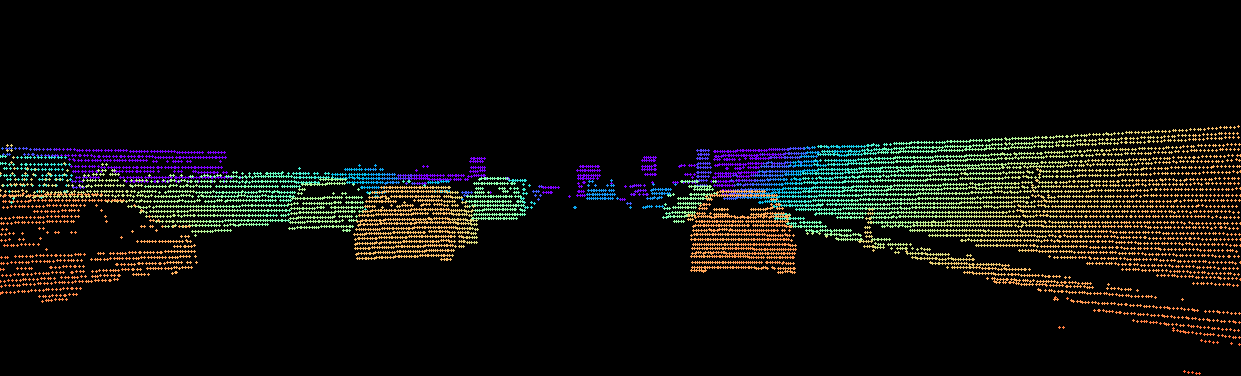
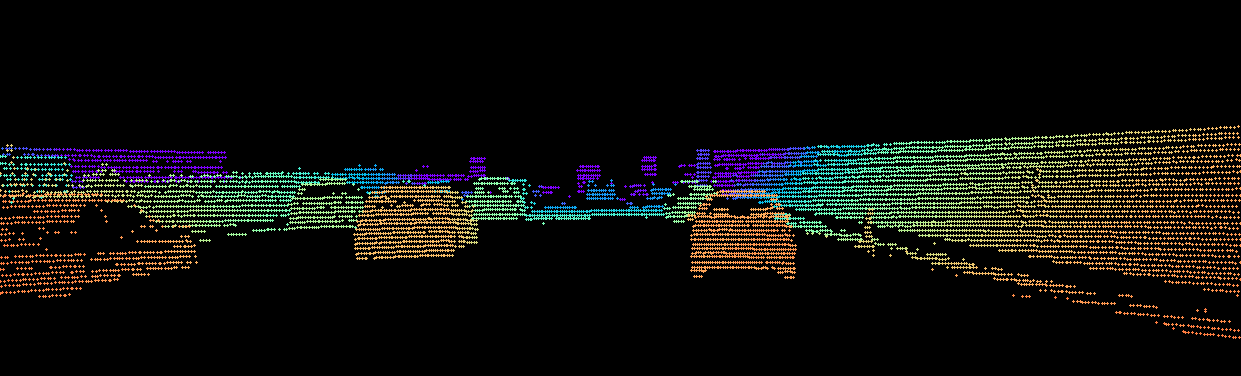
update

diff --git a/main.py b/main.py
@@ -9,9 +9,6 @@ from matplotlib import cm
 from matplotlib import image
 
 class ProjectionTool:
-    class CameraDirection(Enum):
-        POSITIVE = 0
-        NEGATIVE = 1
     class ColorFunctionGenerator():
          def rainbow(lut):
              rainbow_r = cm.get_cmap('rainbow_r', lut=lut)
@@ -39,7 +36,7 @@ class ProjectionTool:
         else:
             self.__color_function = color_function
 
-    def applyLidarToCameraProjections(self,inputDirectory,outputDirectory,image_shape=(376, 1241),remove_plane = True,remove_outliers=True,cameraDirection = CameraDirection.POSITIVE):
+    def applyLidarToCameraProjections(self,inputDirectory,outputDirectory,image_shape=(376, 1241),remove_plane = True):
         operand = self.__computeTotalMatrix()
         paths = sorted(glob(os.path.join(inputDirectory, '*.bin')))
 
@@ -71,22 +68,19 @@ class ProjectionTool:
             camera = np.matmul(operand,xyzw)
 
 
-            if cameraDirection == self.CameraDirection.POSITIVE:
-                camera = np.delete(camera, np.where(camera[2, :] < 0)[0], axis=1)
-            else:
-                camera = np.delete(camera, np.where(camera[2, :] > 0)[0], axis=1)
+            camera = np.delete(camera, np.where(camera[2, :] < 0)[0], axis=1)
 
             # get camera coordinates u,v,z
             camera[:2] /= camera[2, :]
 
             # remove outliers (points outside the image frame)
-            if remove_outliers:
-                u, v, z = camera
-                img_h, img_w, _ = image.shape
-                u_out = np.logical_or(u < 0, u > img_w)
-                v_out = np.logical_or(v < 0, v > img_h)
-                outlier = np.logical_or(u_out, v_out)
-                camera = np.delete(camera, np.where(outlier), axis=1)
+
+            u, v, z = camera
+            img_h, img_w, _ = image.shape
+            u_out = np.logical_or(u < 0, u > img_w)
+            v_out = np.logical_or(v < 0, v > img_h)
+            outlier = np.logical_or(u_out, v_out)
+            camera = np.delete(camera, np.where(outlier), axis=1)
 
             uvz = camera
 
